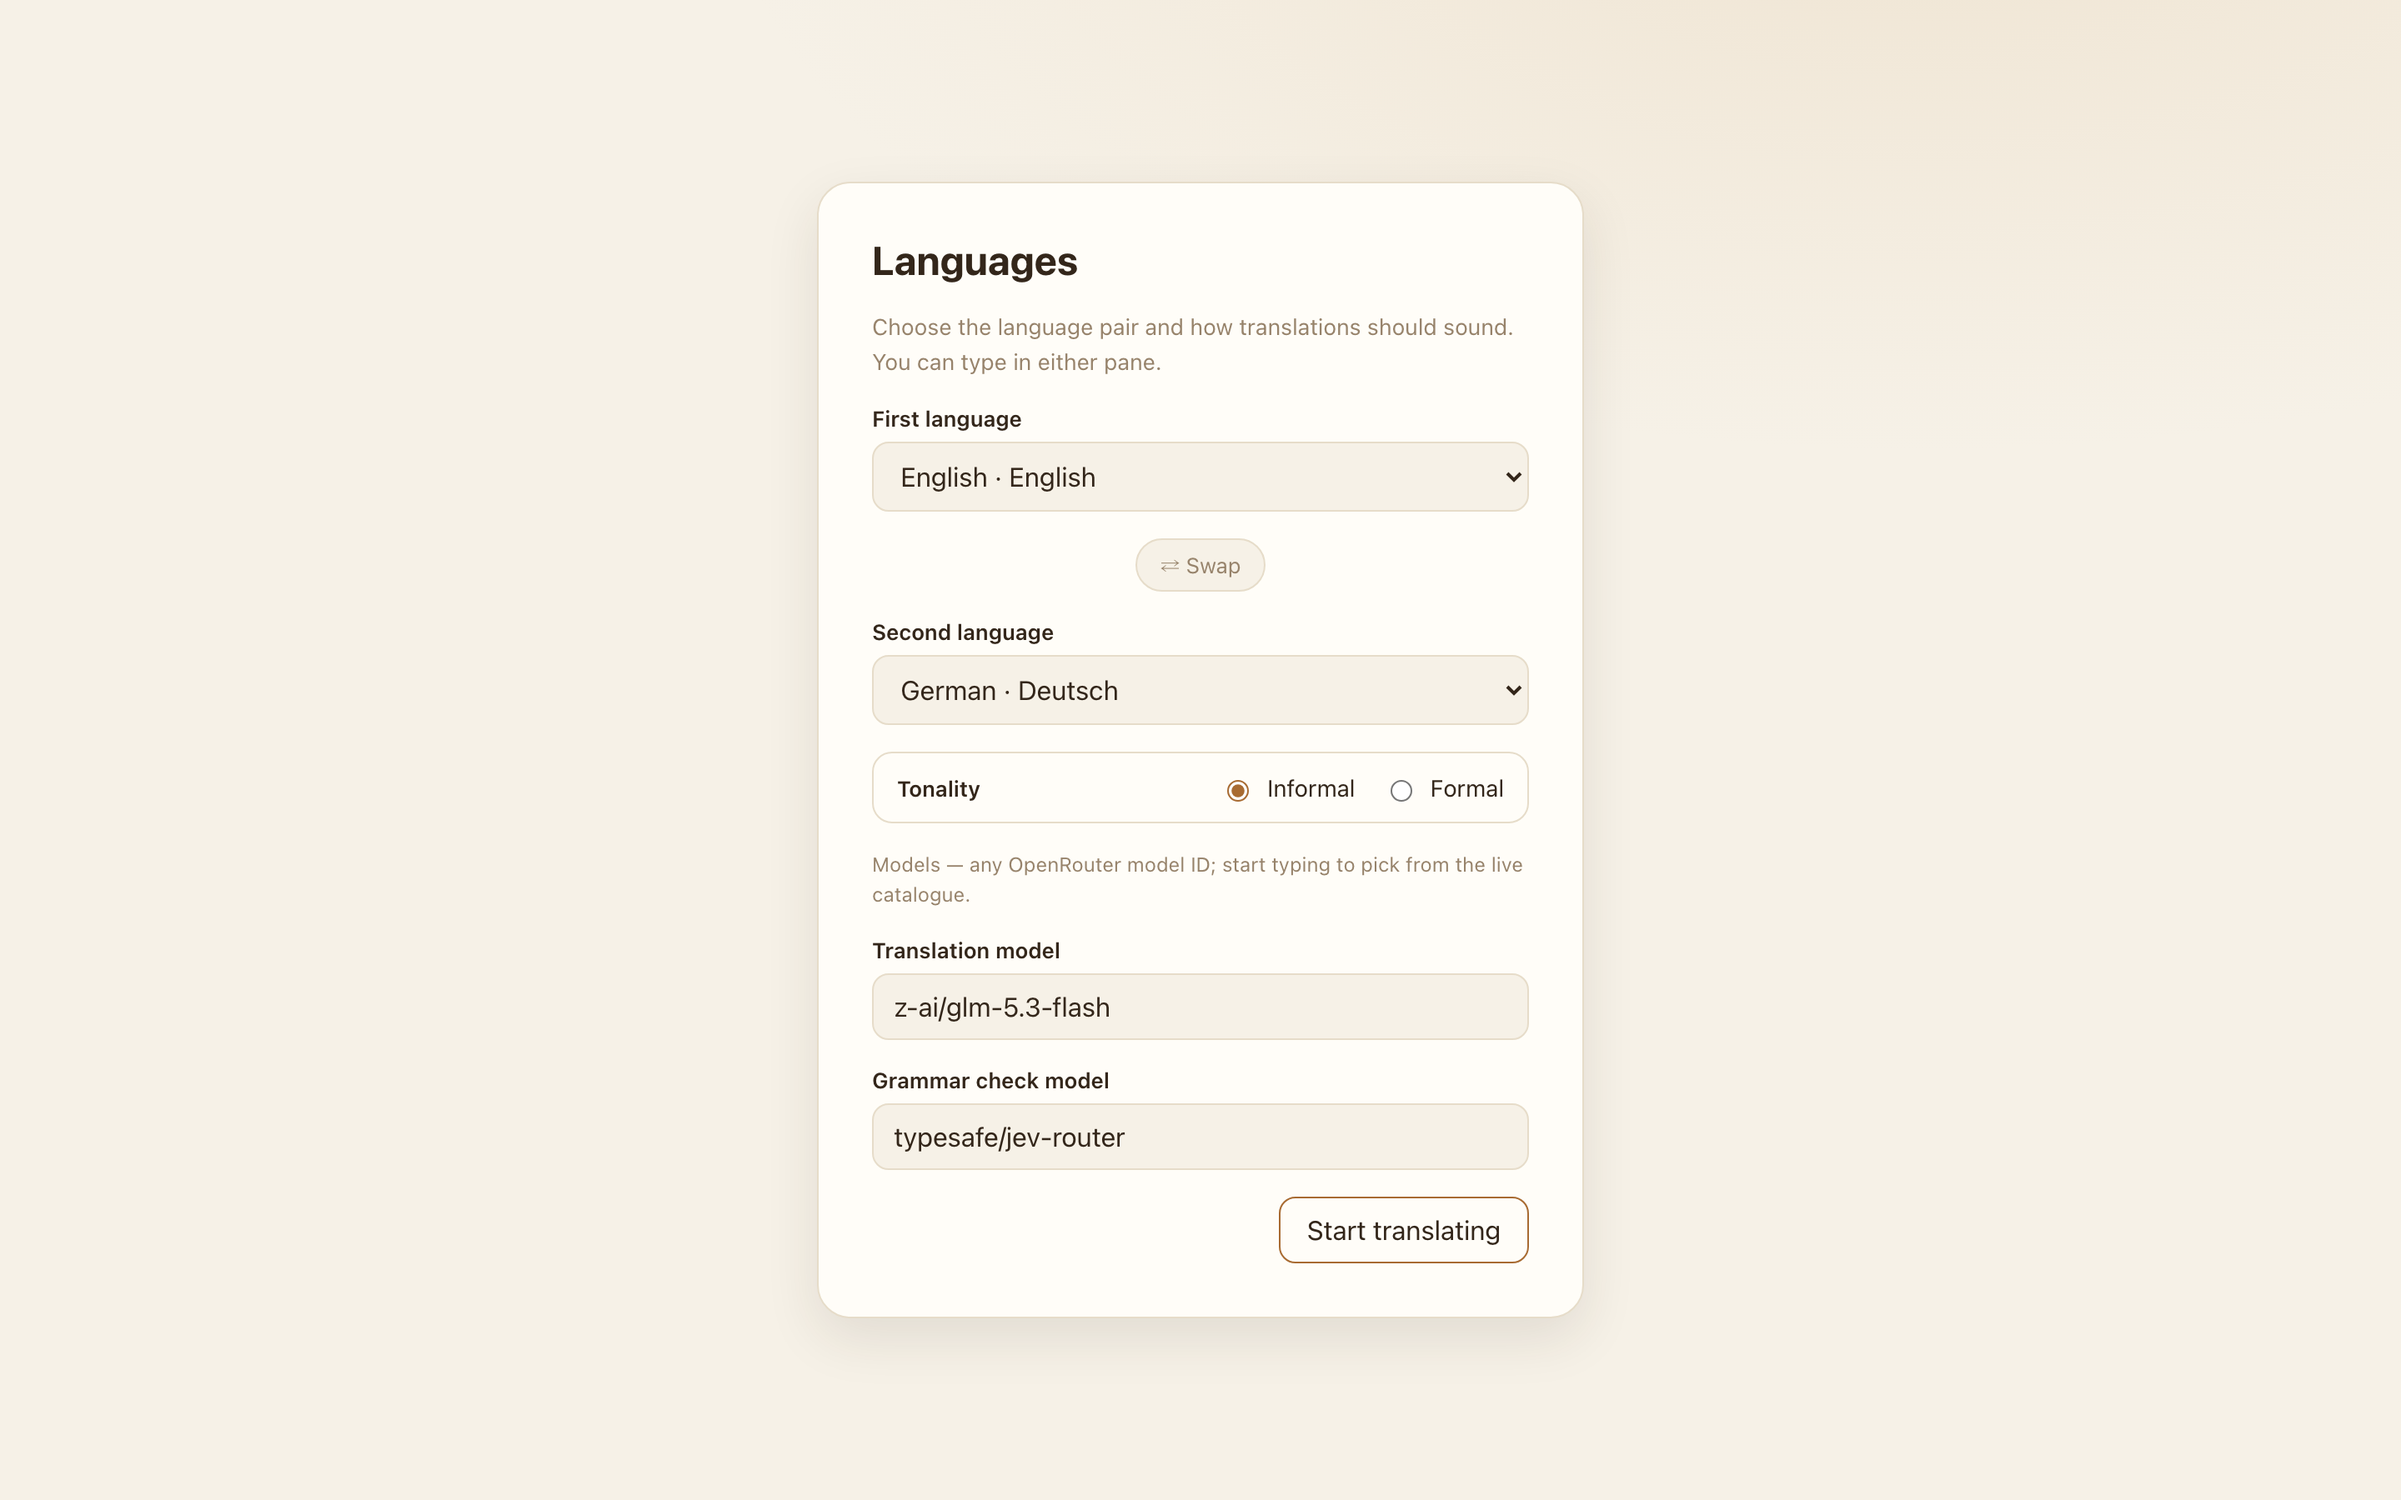
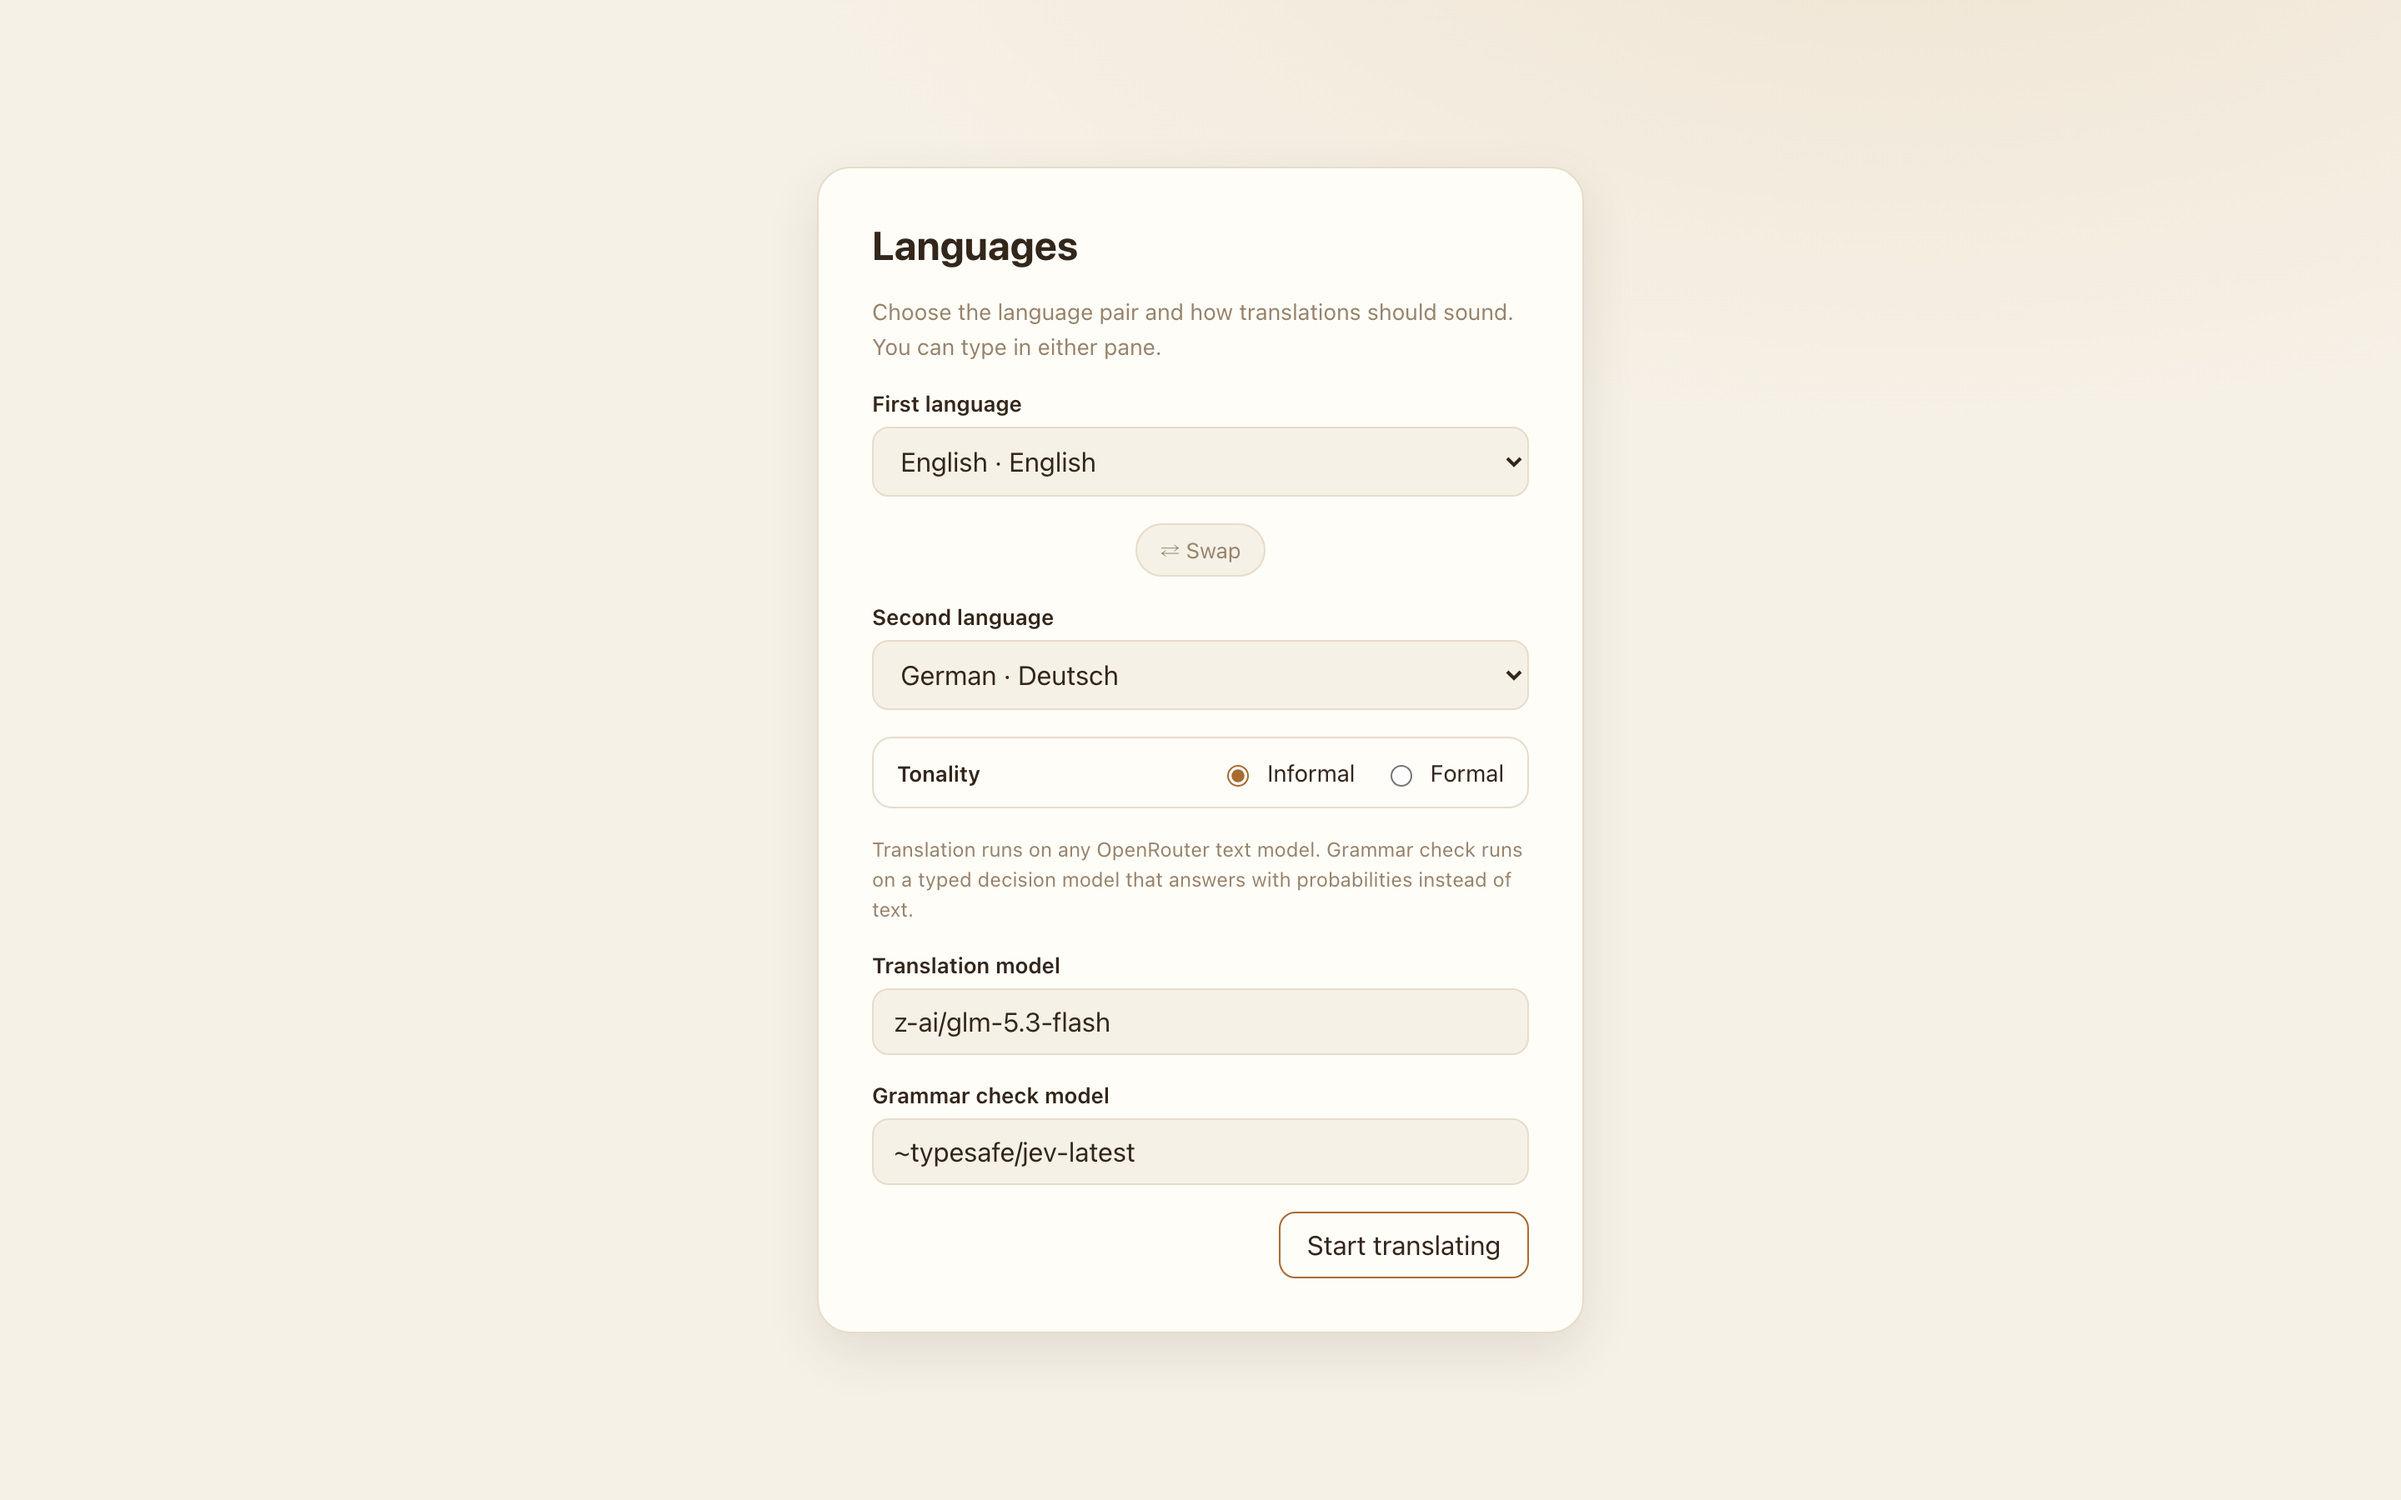
feat: update readme (#3)

diff --git a/README.md b/README.md
@@ -14,26 +14,30 @@ A two-pane chat translator for language pairs, powered by OpenRouter. Type in ei
 - **Three options every time**: each message arrives as three translation alternatives; pick the best fit or tap "None of these" for three fresh attempts
 - **Optional grammar check**: a per-pane toggle that reviews your draft with a checker model; if it finds mistakes you get up to three corrected versions, and you can send as is, dismiss, or edit
 - **Formal or informal**: choose the tonality your translations should carry
-- **Your models**: translation and grammar models are configurable, with suggestions pulled from the live OpenRouter catalogue (defaults: `z-ai/glm-5.3-flash` for translation, `typesafe/jev-router` for checks)
+- **Your models**: translation can use any OpenRouter text model, while the grammar check is limited to typed decision models that answer with probabilities instead of text (defaults: `z-ai/glm-5.3-flash` for translation, `~typesafe/jev-latest` for checks)
 - **Cost transparency**: a running total of API spend sits in the header
 - **Tidy controls**: delete any bubble, clear one pane, or log out to wipe everything
 - **Local first**: the API key, settings, chats, and costs live in localStorage only; logging out clears them all
 - **Errors handled**: failed requests offer a retry without losing your draft
 
-## Getting started
+## Use it now
+
+1. Open https://latte.donnie.in
+2. Get an OpenRouter API key: sign in at openrouter.ai, open Keys at openrouter.ai/keys, create a key, and copy it
+3. Paste the key into Latte, choose your languages and tonality, and start chatting
+
+Your key, chats, and spend total are stored only in this browser. Log out to erase everything.
+
+## Development
 
 ```bash
 npm install
 npm run dev
 ```
 
-Open the printed URL, paste an OpenRouter API key, choose your languages, and start chatting.
+Regenerate the screenshots above with Playwright: run `npm run screenshots` while a preview server is up on port 4173.
 
-The four screenshots above are generated with Playwright: run `npm run screenshots` against a preview server on port 4173.
-
-## Deploy
-
-GitHub Pages ready: push to `main` and the included workflow builds and publishes the site. Enable it under Settings, Pages, Build and deployment, Source: GitHub Actions. Your API key never leaves the browser, so no repository secrets are needed.
+Deploy: push to `main` and the included workflow builds and publishes the site. Enable it under Settings, Pages, Build and deployment, Source: GitHub Actions. Your API key never leaves the browser, so no repository secrets are needed.
 
 ## Stack
 
